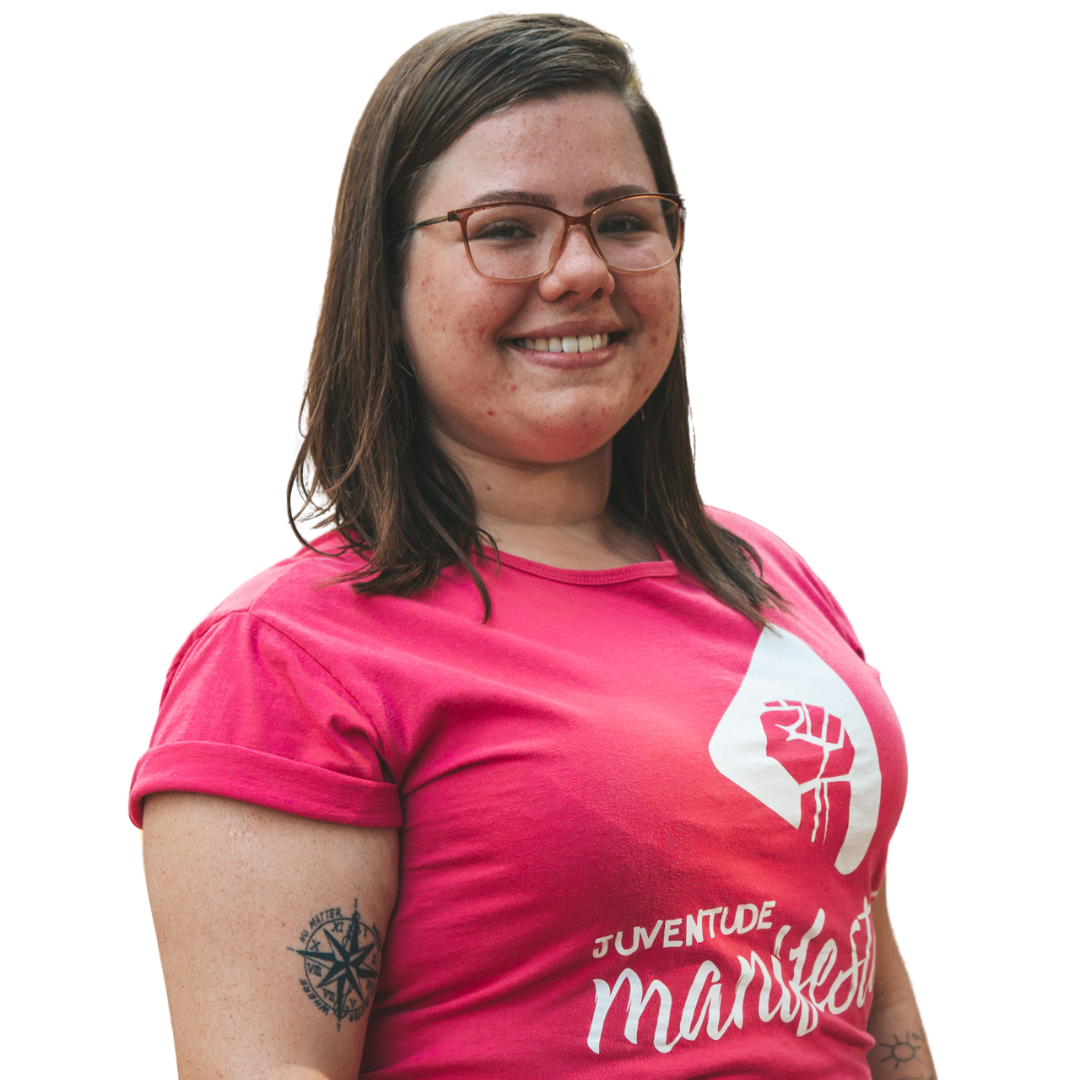
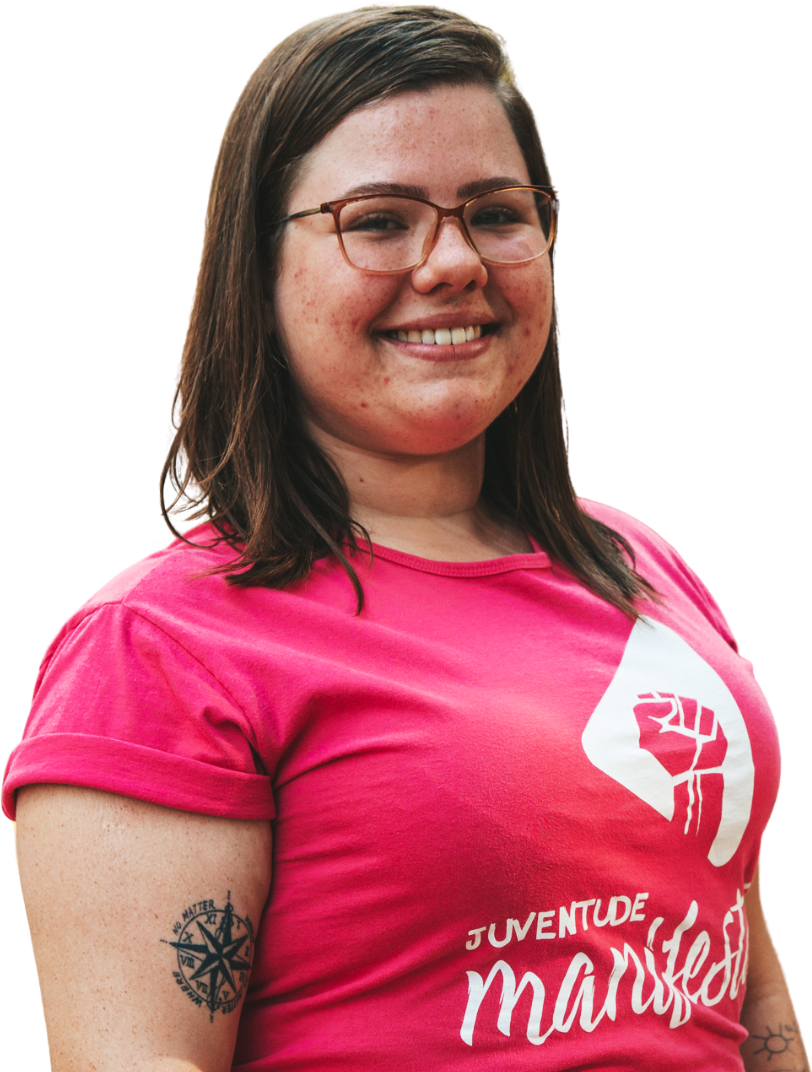
Update Julia Site

diff --git a/julia_files/style.css b/julia_files/style.css
@@ -2369,9 +2369,9 @@ span.section-id {
 }
 
 #hero-3 {
-  background-size: auto 80% !important;
+  background-size: auto 90% !important;
   background-position: center bottom;
-  background-image: url(./ju-soares-2.png);
+  background-image: url(./ju-soares-1.png);
   padding-top: 180px;
 }
 
@@ -5385,7 +5385,7 @@ nav a#pull {
   #hero-3 {
     background-size: auto 90% !important;
     background-position: center bottom;
-    background-image: url(./ju-soares-2.png);
+    background-image: url(./ju-soares-1.png);
   }
 
   .hero-txt {
@@ -5541,9 +5541,9 @@ nav a#pull {
   text-align: center;
   display: block;
   padding: 10px;
-  box-shadow: 0 0 0 0 rgba(122, 247, 105, 0.461);
+  box-shadow: 0 0 0 0 rgba(222, 10, 162, 0.461);
   border-radius: 10px;
-  background-color: #00a303;
+  background-color: #731868;
   animation: pulsing 1.25s infinite cubic-bezier(0.66, 0, 0, 1);
   color: #ffffff;
   transition: all 300ms ease-in-out;
@@ -5596,4 +5596,12 @@ a.pulse-button:hover {
   font-size: 80px;
   position: absolute;
   z-index: -1000;
+}
+
+#strip {
+  background: url(./carimbo.png);
+  height: 150px;
+  background-size: 280px;
+  background-position: center center;
+  background-repeat: repeat-x;
 }

diff --git a/julia.html b/julia.html
@@ -85,7 +85,7 @@
 
         <section id="hero-3" class="bg-scroll hero-section division" style="background-color: #FFB200;">
             <div class="container">
-                <div class="row d-flex align-items-top">
+                <div class="row d-flex align-items-center">
                     <div class="col-md-7 col-xl-7">
                         <div class="hero-txt white-color">
                             <h3>Ju Soares</h3>
@@ -115,6 +115,9 @@
                 </div>
                 <a name="sobre-ela"></a>
             </div>
+        </section>
+
+        <section id="strip">
         </section>
 
         <section id="content-4" class="p-bottom-80 content-section">
@@ -154,7 +157,7 @@
                         </div>
 
                         <div class="col-md-6 ct-4-col">
-                            <img class="p-md wow fadeInLeft" src="./julia_files/juh-santos-2.png"
+                            <img class="p-md wow fadeInLeft" src="./julia_files/ju-soares-1.png"
                                 style="width: 100%; visibility: hidden; animation-delay: 1s; animation-name: none;">
                         </div>
                     </div>
